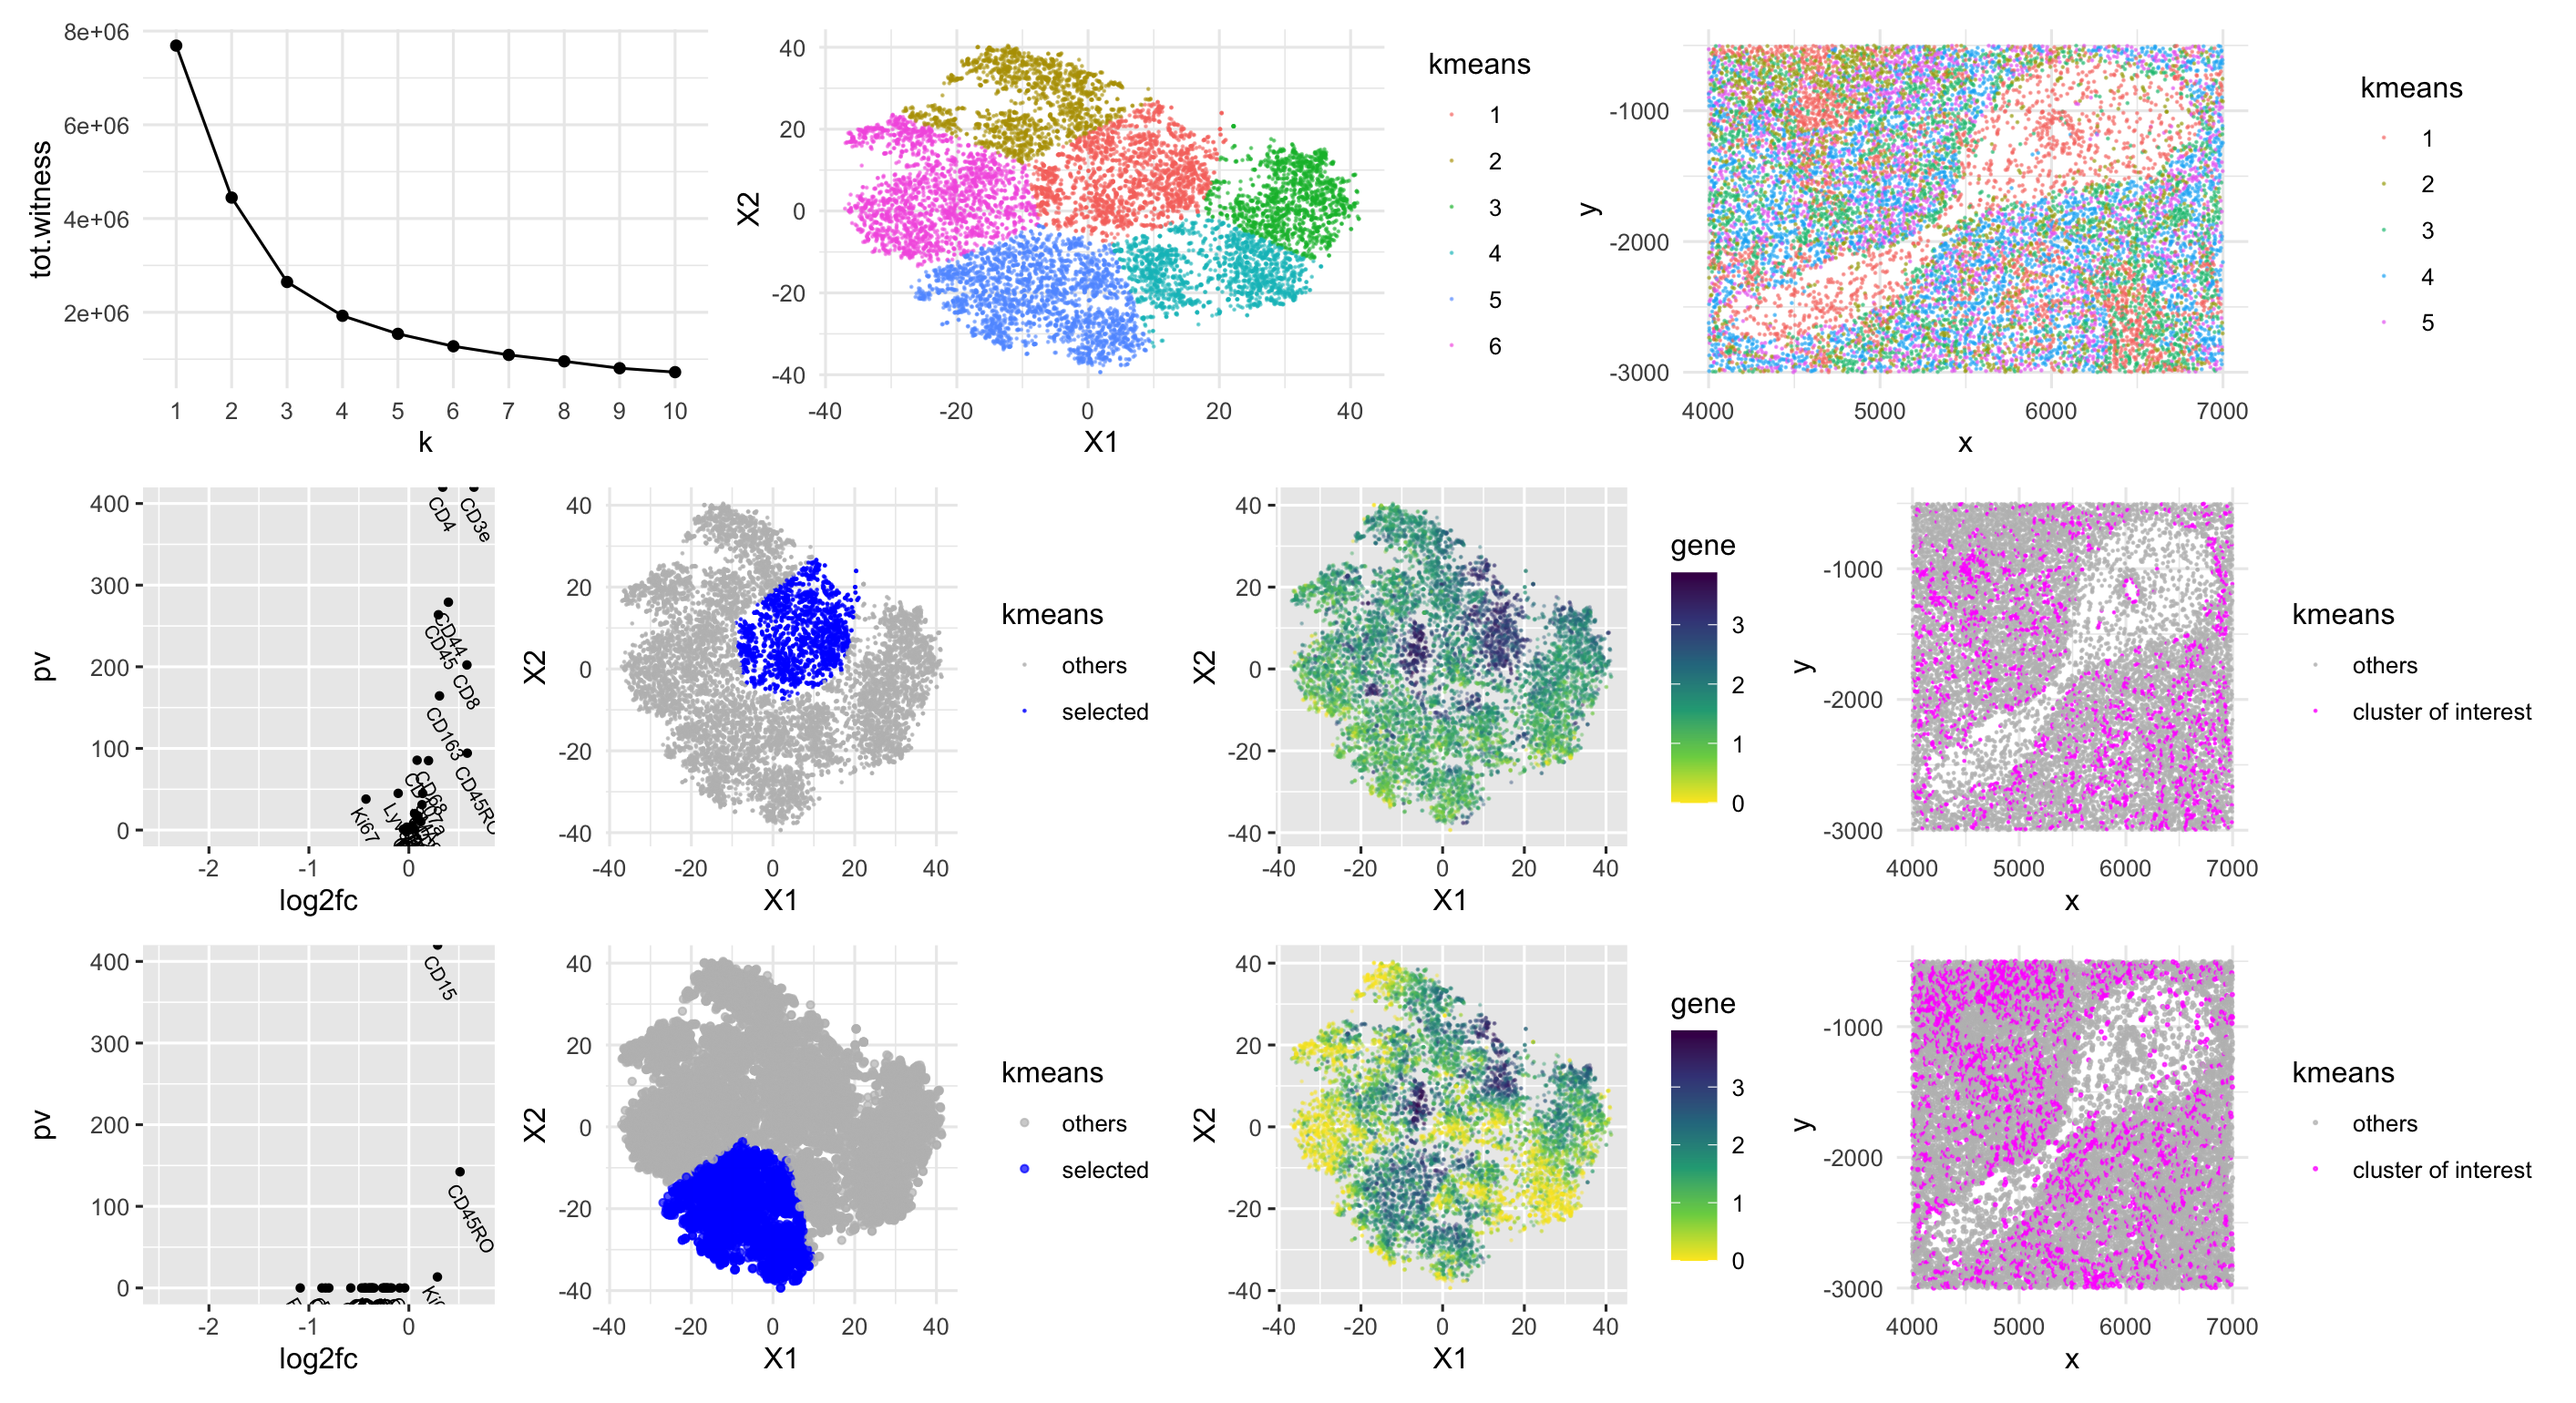
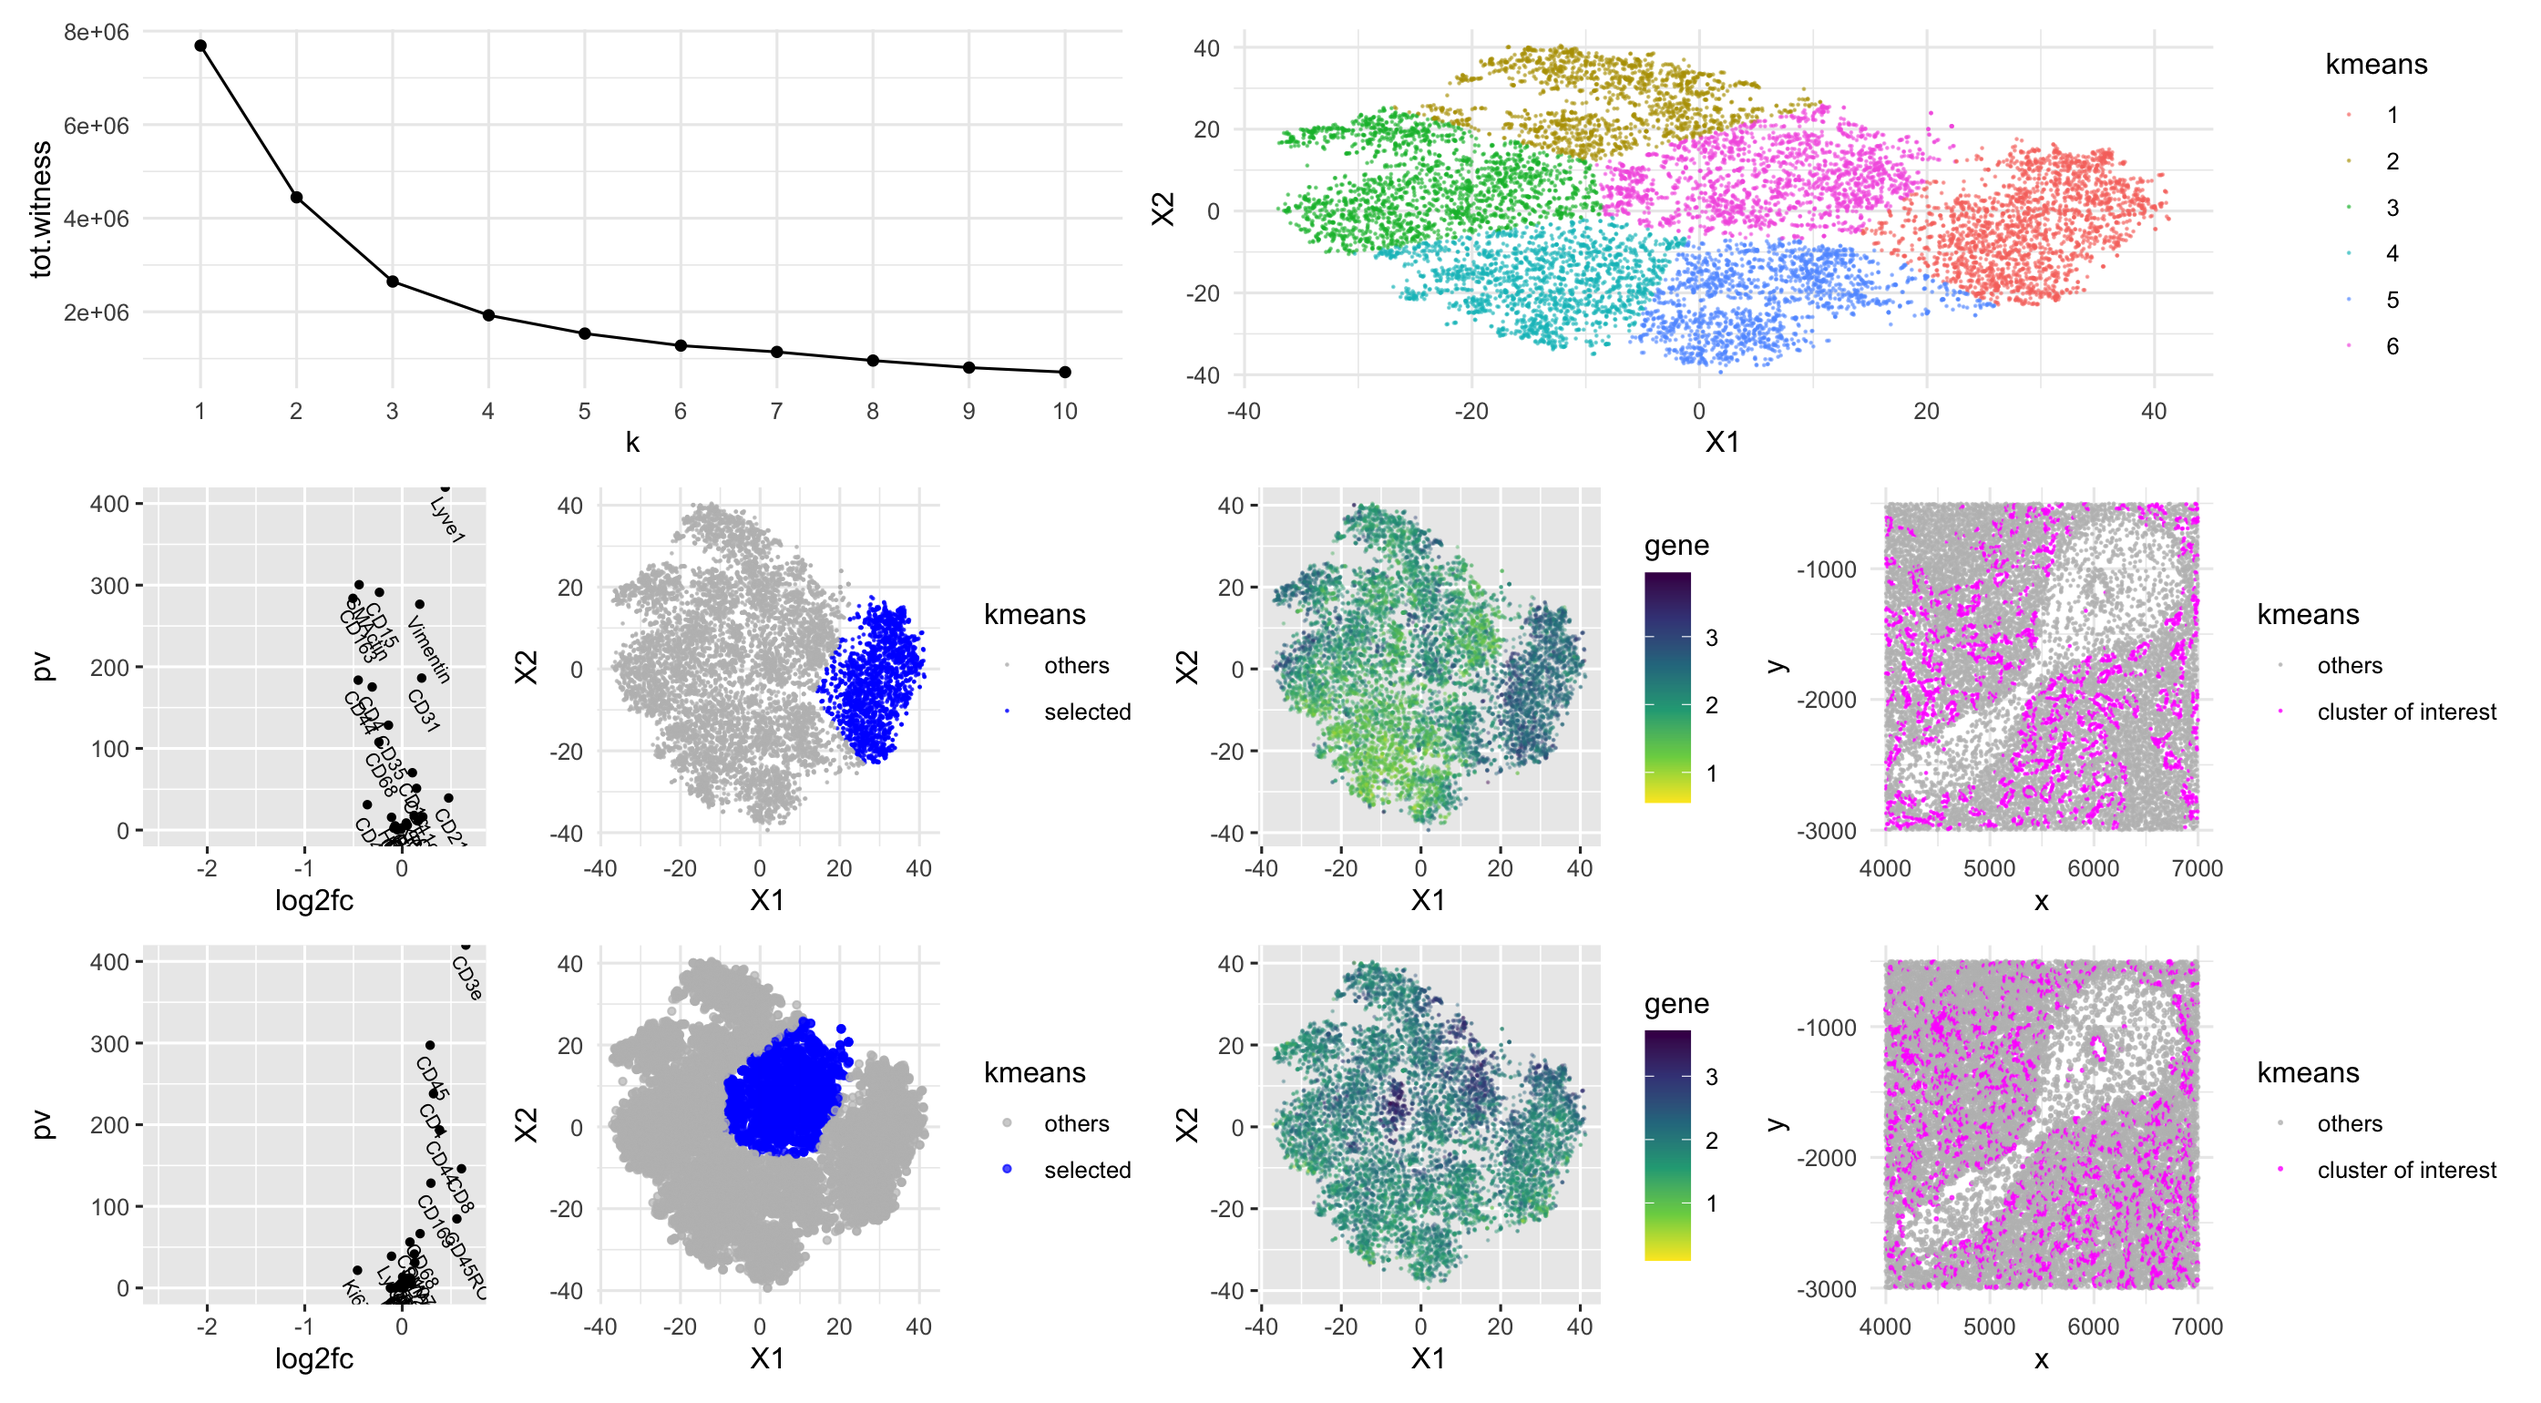
hw4 post

diff --git a/_posts/2024-02-22-yyan67.md b/_posts/2024-02-22-yyan67.md
@@ -1,0 +1,158 @@
+---
+layout: post
+title:  "Differentially expressed gene (DSC2) in cell clusters by k-means"
+author: April Yan
+jhed: yyan67
+categories: [ HW5 ]
+image: homework/hw5/hw5_yyan67.png
+featured: false
+---
+
+### Perform a full analysis (quality control, dimensionality reduction, kmeans clustering, differential expression analysis) on your data. Your goal is to figure out what tissue structure is represented in the CODEX data. Options include: (1) Artery/Vein, (2) White pulp, (3) Red pulp, (4) Capsule/Trabecula You will need to visualize and interpret at least two cell-types. Create a data visualization and write a description to convince me that your interpretation is correct. 
+
+### Your description should reference papers and content that allowed you to interpret your cell clusters as a particular cell-types. You must provide attribution to external resources referenced. Links are fine; formatted references are not required. 
+
+I performed k-means clustering on t-SNE embedding of normalized gene expression data. The very top panel showed an elbow plot to find an optimal k. I found k=6 could be optimal since the total witness stopped dropping drastically after k=6. We can also see how cells are distributed in t-SNE with it k-means labels (top right panel). I picked cluster 1 and 6 to further explore their cell types. I did Wilcoxon tests for differential expression analysis in cluster 1 and 6 respectively. The second row corresponds to cluster 1 and the third row corresponds to cluster 6. I plotted their log10 of pvalues vs. log2 fold change to identify significantly expressed genes. 
+
+"Lyve1" seem to be one of those in cluster 1, which are shown to be significantly expressed in Lymphatic endothelial cells (LECs) that form the structure of the **lymphatic vessels** [1,2]. I have plotted cluster 1 cells in physical space. If this is an image of a slice of spleen tissue, it will make sense that we observe the circle-shaped structures, which is just the cross section of vessels/veins. 
+
+"CD3e" and "CD45" seem to be significant highly expressed genes in cluster 6. Gene names starts with "CD" are usually related to immune cells. I think this cluster belongs to red pulp cells due to the following reasons. First, CD45 regulates red pulp macrophages and erythropoietin in the spleen [3]. Second, this can't be white pulp because CD3e can't be detected in white pulp cells [4]. CD45RO and CD4 seem to be one of those in cluster 6. I have labeled the gene expression level of CD45 in third row third panel and we can see it's highly expressed in cluster 6 (red pulp). 
+
+## Please share the code you used to reproduce this data visualization.
+```{r}
+## HW6
+# rm(list=ls())
+data <- read.csv('codex_spleen_subset.csv.gz', row.names = 1)
+
+library(ggplot2)
+library(patchwork)
+library(Rtsne)
+
+### quality control
+# -- low variance filtering and normalization
+set.seed(1111)
+gexp <- data[, 4:ncol(data)]
+gexpnorm <- log10(gexp/rowSums(gexp) * mean(rowSums(gexp))+1)
+
+### dimension reduction 
+# -- t-SNE embedding on PCs
+# pcs <- prcomp(gexpnorm)
+# emb <- Rtsne(pcs$x)$Y
+
+emb <- Rtsne::Rtsne(gexpnorm)$Y
+### k-means clustering 
+# -- cluster using t-SNE embedding 
+tot.witness = c()
+for (i in 1:10){
+  km <- kmeans(emb, centers=i)
+  tot.witness = append(tot.witness, km$tot.withinss)
+}
+df.witness = data.frame(k=c(1:10), total.witness=tot.witness)
+p00 = ggplot(df.witness, aes(x=k, y=tot.witness)) + geom_line() + 
+  geom_point() + theme_minimal() + scale_x_discrete(limits=as.factor(c(1:10)))
+
+km <- kmeans(emb, centers=6)
+# -- plot k-means clusters in t-SNE space
+df1 <- data.frame(emb, kmeans=as.factor(km$cluster))
+p1 = ggplot(df1) + geom_point(aes(x=X1, y=X2, col=kmeans), 
+                              size=0.1, alpha=0.5) + theme_minimal()
+p1
+
+# -- plot k-means clusters in physical space
+df <- data.frame(data, kmeans=as.factor(km$cluster))
+head(df)
+p0 = ggplot(df) + geom_point(aes(x=x, y=y, col=kmeans), 
+                             size=0.1, alpha=0.5) + theme_minimal()
+p0
+
+p00 + p1 + p0
+
+### differential expression analysis
+# -- Wilcoxon test and p-values 
+# -- cluster 1
+cluster_of_interest = 1
+kmcluster = as.factor(km$cluster)
+
+pvals <- sapply(colnames(gexp), function(p) {
+  print(p)
+  test <- wilcox.test(gexpnorm[kmcluster == cluster_of_interest, p], 
+                 gexpnorm[kmcluster != cluster_of_interest, p],)
+  test$p.value
+})
+
+fc <- sapply(colnames(gexp), function(p) {
+  print(p)
+  mean(gexpnorm[kmcluster == cluster_of_interest, p])/mean(gexpnorm[kmcluster != cluster_of_interest, p])
+})
+
+df2 <- data.frame(pv = -log10(pvals), log2fc = log2(fc), label=colnames(gexp))
+head(df2)
+p3 = ggplot(df2) + geom_point(aes(x = log2fc, y = pv), size=1) + 
+  geom_text(aes(x = log2fc, y = pv, label=label), size=2.5, 
+            hjust=-0.1, vjust=1.5, angle=300) +
+  xlim(-2.5, 0.7) + ylim(0, 400)
+df <- data.frame(emb, kmeans=as.factor(km$cluster == cluster_of_interest))
+p4 = ggplot(df) + geom_point(aes(x=X1, y=X2, col=kmeans), 
+                             size=0.1, alpha=0.7) + theme_minimal() +
+  scale_color_manual(breaks = c('FALSE', 'TRUE'), values=c("gray", "blue"),
+                     labels = c( "others","selected"))
+
+p5 = ggplot(data.frame(emb, gene = gexpnorm[,"Lyve1"])) + 
+  geom_point(aes(x=X1, y=X2, col=gene), size=0.1, alpha=0.3) + 
+  scale_color_continuous(type="viridis", direction=-1)
+
+df <- data.frame(data[,1:2], kmeans=as.factor(km$cluster == cluster_of_interest))
+p9 = ggplot(df) + geom_point(aes(x = x, y=y, col=kmeans), 
+                             size=0.1, alpha=0.7) + theme_minimal() +
+  scale_color_manual(breaks = c('FALSE', 'TRUE'), values=c("gray", "magenta"),
+                     labels = c( "others","cluster of interest"))
+(p3 + p4)/(p5 +p9)
+
+# -- cluster 6
+cluster_of_interest = 6
+kmcluster = as.factor(km$cluster)
+
+pvals <- sapply(colnames(gexp), function(p) {
+  print(p)
+  test <- wilcox.test(gexpnorm[kmcluster == cluster_of_interest, p], 
+                      gexpnorm[kmcluster != cluster_of_interest, p],)
+  test$p.value
+})
+
+fc <- sapply(colnames(gexp), function(p) {
+  print(p)
+  mean(gexpnorm[kmcluster == cluster_of_interest, p])/mean(gexpnorm[kmcluster != cluster_of_interest, p])
+})
+
+df2 <- data.frame(pv = -log10(pvals), log2fc = log2(fc), label=colnames(gexp))
+head(df2)
+p6 = ggplot(df2) + geom_point(aes(x = log2fc, y = pv), size=1) + 
+  geom_text(aes(x = log2fc, y = pv, label=label), size=2.5, hjust=-0.1, vjust=1.5,
+            angle=300) +
+  xlim(-2.5, 0.7) + ylim(0, 400)
+
+df <- data.frame(emb, kmeans=as.factor(km$cluster == cluster_of_interest))
+p7 = ggplot(df) + geom_point(aes(x=X1, y=X2, col=kmeans), 
+                             size=1, alpha=0.7) + theme_minimal() +
+  scale_color_manual(breaks = c('FALSE', 'TRUE'), values=c("gray", "blue"),
+                     labels = c( "others","selected"))
+
+p8 = ggplot(data.frame(emb, gene = gexpnorm[,'CD45'])) + 
+  geom_point(aes(x=X1, y=X2, col=gene), size=0.1, alpha=0.3) + 
+  scale_color_continuous(type="viridis", direction=-1)
+
+df <- data.frame(data[,1:2], kmeans=as.factor(km$cluster == cluster_of_interest))
+p10 = ggplot(df) + geom_point(aes(x = x, y=y, col=kmeans), 
+                             size=0.3, alpha=0.7) + theme_minimal() +
+  scale_color_manual(breaks = c('FALSE', 'TRUE'), values=c("gray", "magenta"),
+                     labels = c( "others","cluster of interest"))
+
+(p00+p1)/(p3 | p4 | p5 | p9)/(p6|p7|p8|p10)
+
+``` 
+
+## external resources
+[1] https://www.frontiersin.org/journals/immunology/articles/10.3389/fimmu.2019.00036/full
+[2] https://www.ncbi.nlm.nih.gov/gene/10894
+[3] https://www.sciencedirect.com/science/article/pii/S0301472X2030182X 
+[4] https://v15.proteinatlas.org/ENSG00000198851-CD3E/tissue/spleen
